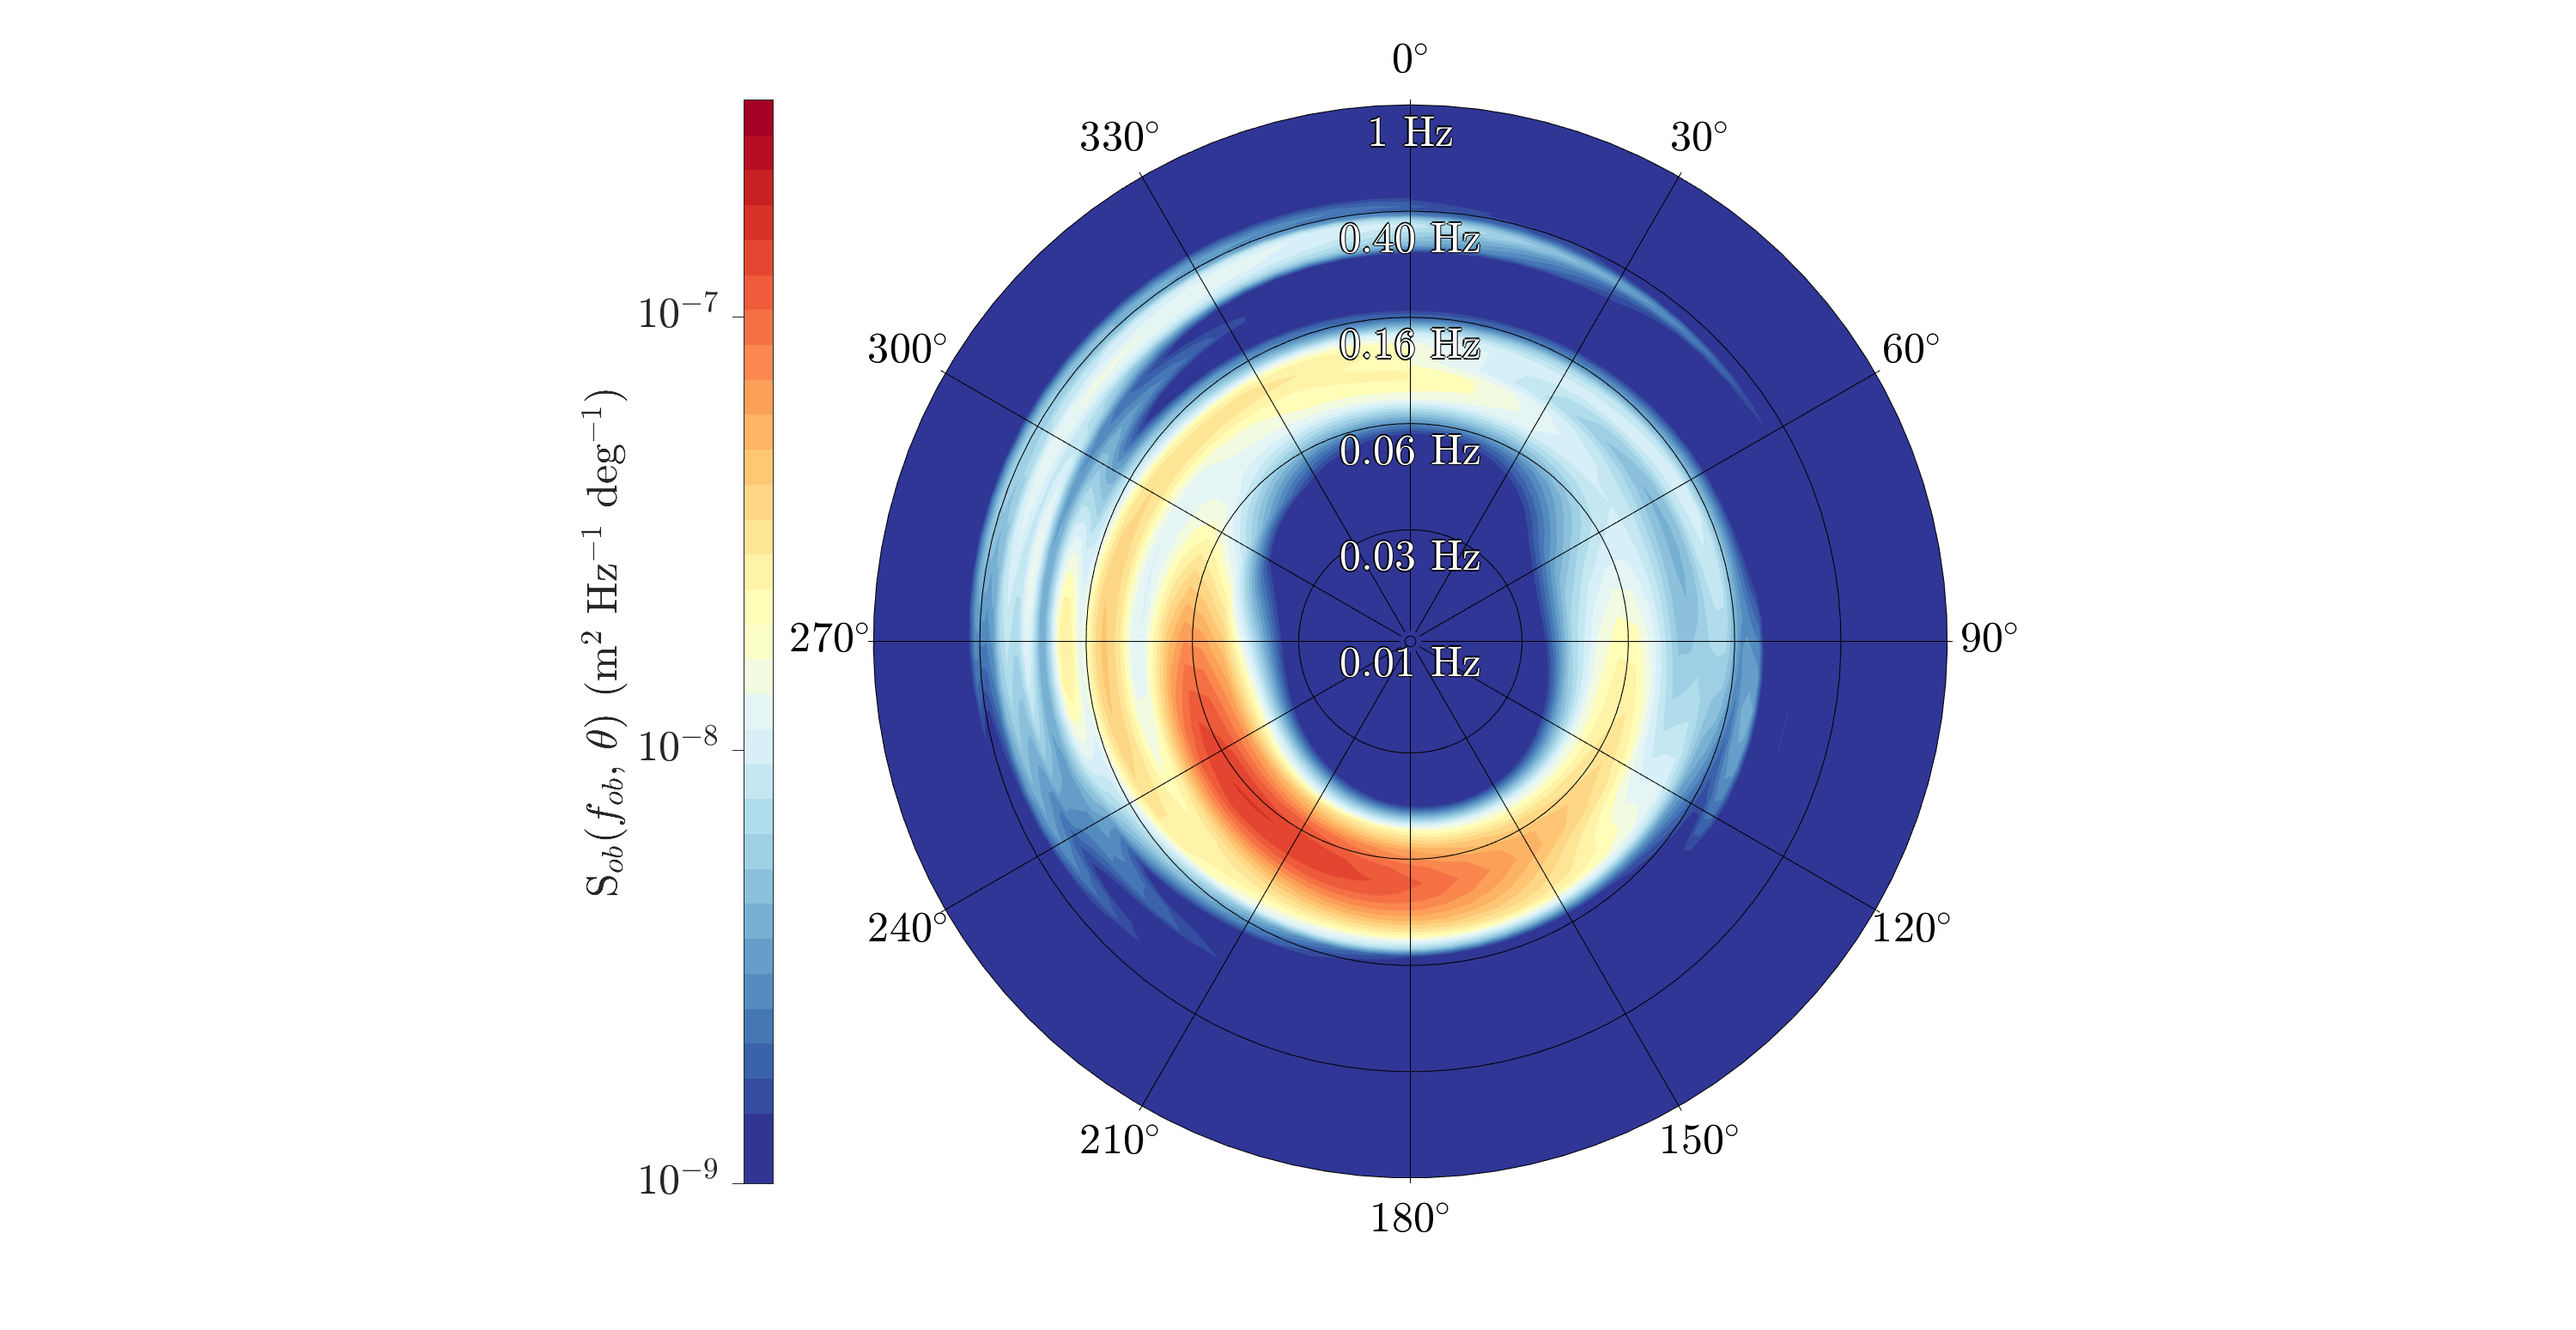
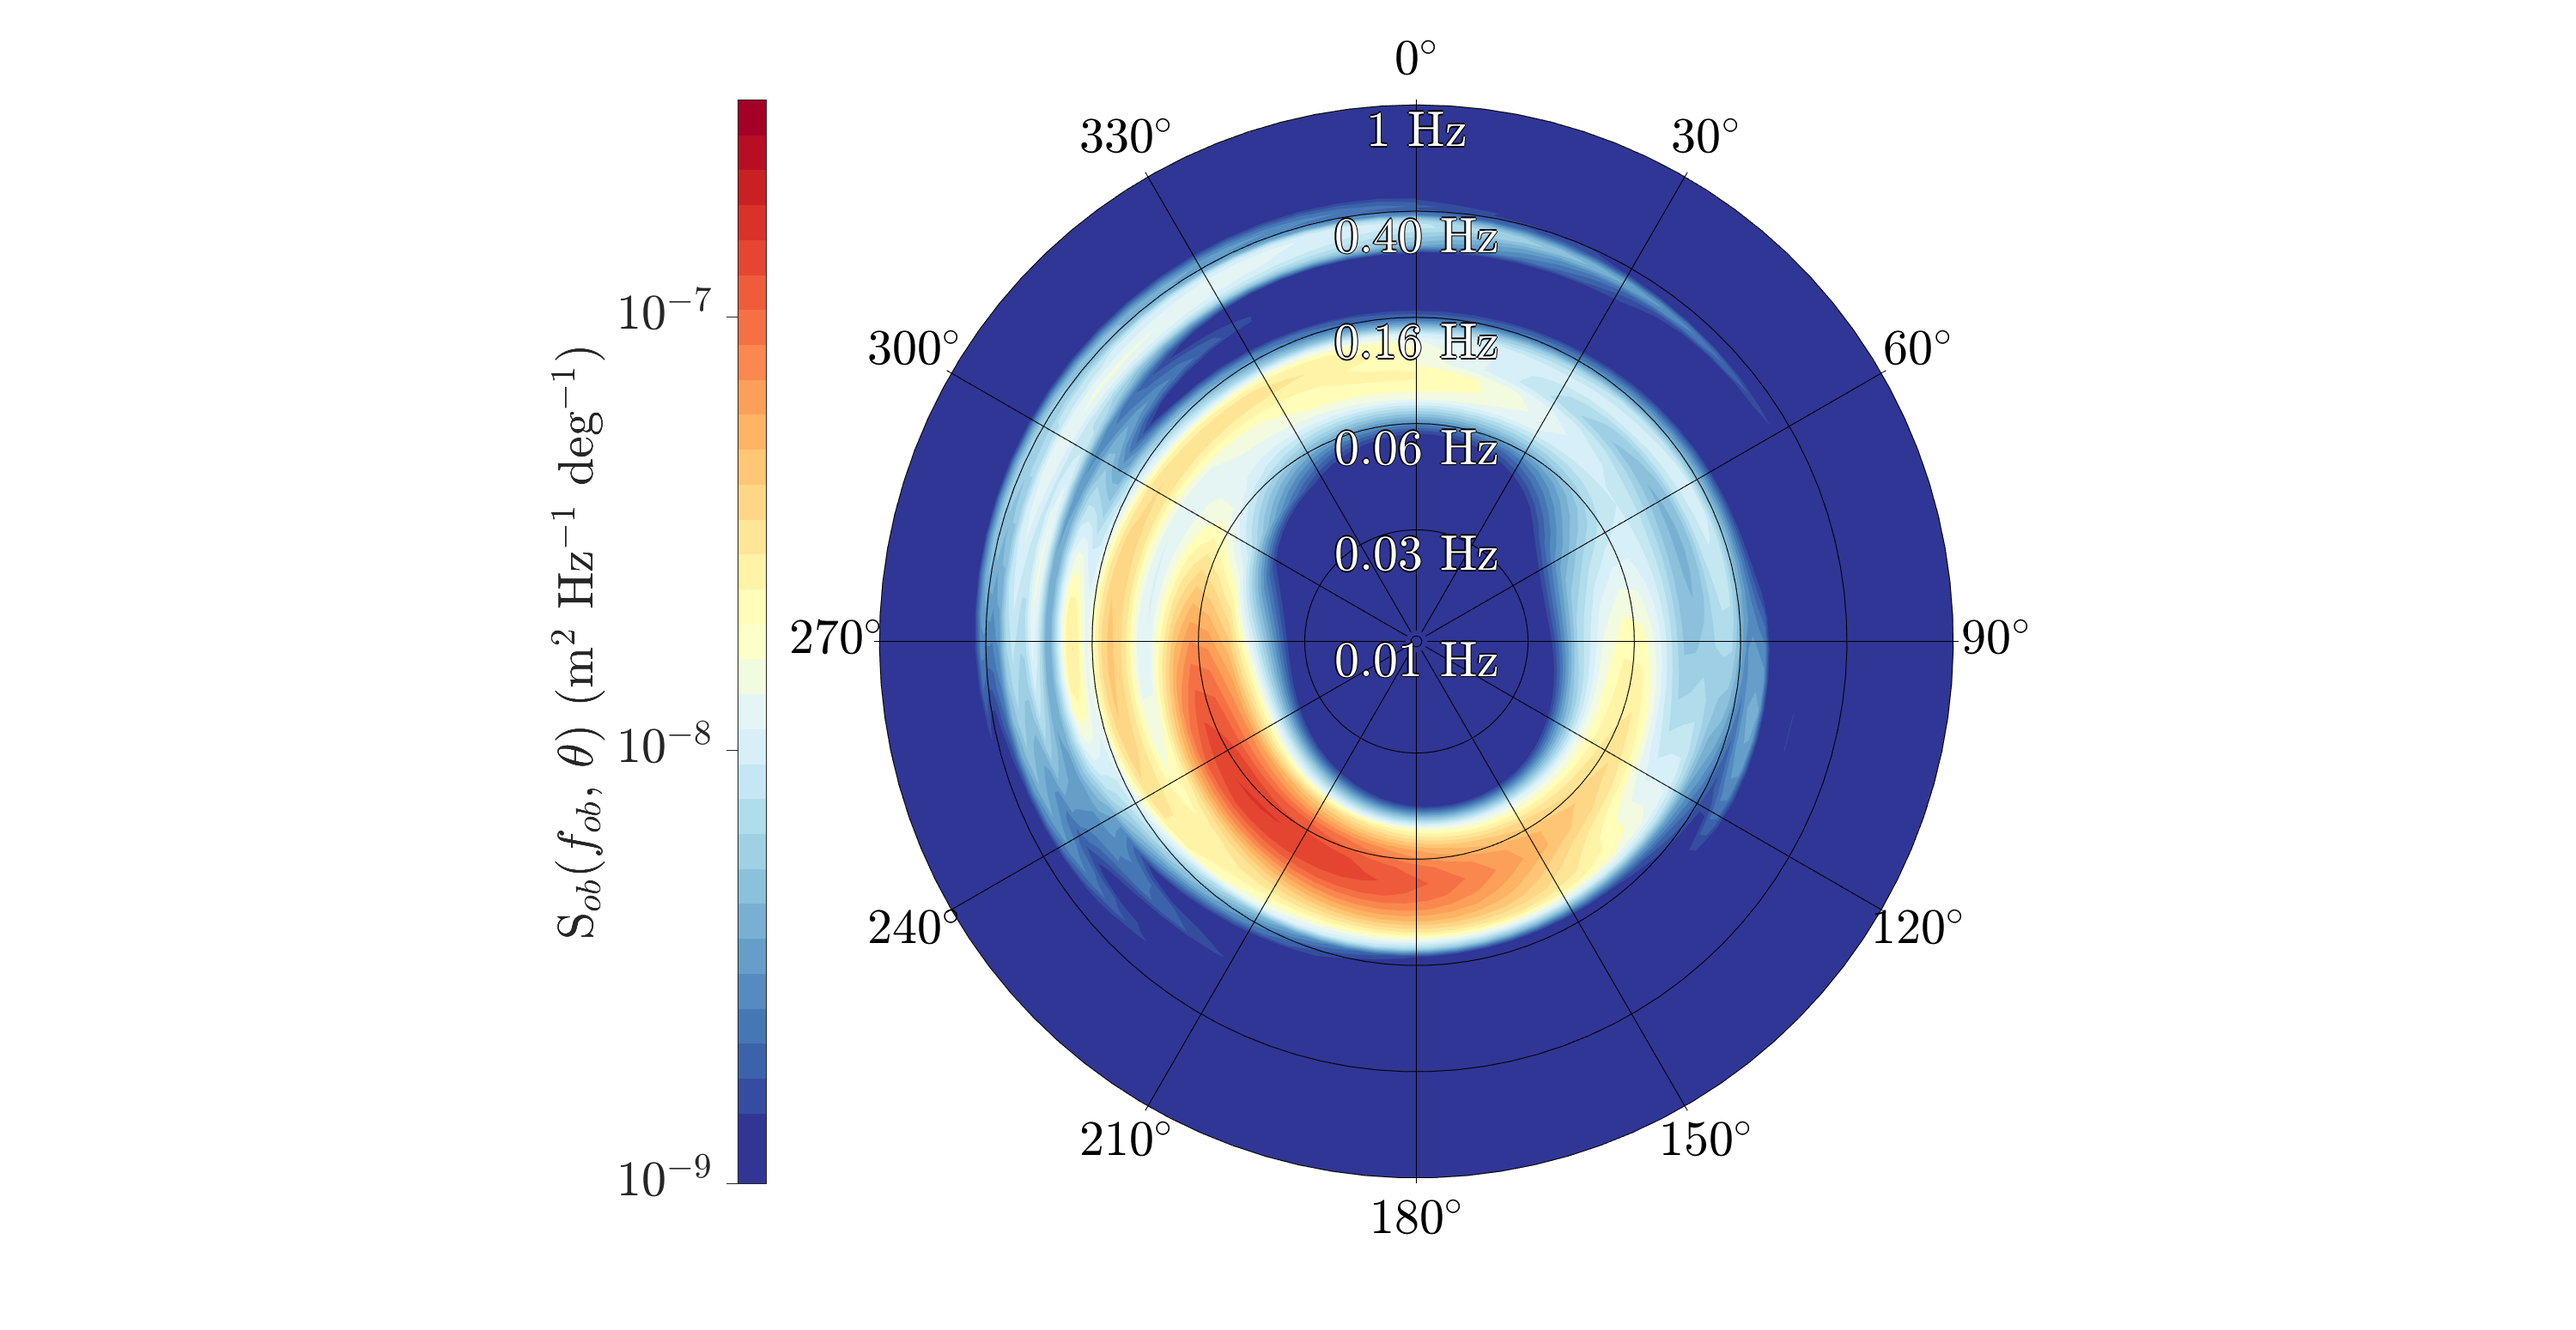
Update compute_directional_spectrum arguments.

diff --git a/src/fig06.m b/src/fig06.m
@@ -55,6 +55,7 @@ f_noise = sqrt(g/(2*pi*lambda_c));                                          % No
 toolbox = 'WAFO';                                                           % Method used to compute directional spectrum 
 variables = 'heave_velocity';                                               % Heave and horizontal velocity are used to compute the direction spectrum
 scaling = false;                                                            % Variance of directional spectrum is not scaled to match variance of heave spectrum 
+method = 'MEM';                                                             % Method used to compute directional spectrum 
 
 % Upload and process novatel and weather station data
 [nov_s, ~, nlegs_s] = process_wg_data(vehicle, ROOT, date_o, dir_con, [dt_n, dt_w]);
@@ -65,7 +66,7 @@ scaling = false;                                                            % Va
 for n = 1:nlegs_s
     
     % Compute Directional Spectrum  
-    eval(['[nov_s.Sd(:,:,n), nov_s.f, nov_s.theta] = compute_directional_spectrum(nov_s.L' num2str(n) '.heave, nov_s.L' num2str(n) '.VEL_east, nov_s.L' num2str(n) '.VEL_north, nov_s.L' num2str(n) '.VEL_up, nov_s.L' num2str(n) '.time_20hz, f, df, dtheta, nfft, fe_n, toolbox, variables, scaling, dir_con);']) 
+    eval(['[nov_s.Sd(:,:,n), nov_s.f, nov_s.theta] = compute_directional_spectrum(nov_s.L' num2str(n) '.heave, nov_s.L' num2str(n) '.VEL_east, nov_s.L' num2str(n) '.VEL_north, nov_s.L' num2str(n) '.VEL_up, nov_s.L' num2str(n) '.time_20hz, f, df, dtheta, nfft, fe_n, toolbox, variables, scaling, dir_con, method);']) 
     
 end
 
@@ -85,12 +86,12 @@ Nspokes = 13;                                                               % Nu
 Ncircles = 6;                                                               % Number of azimuthal circles
 pos = linspace(nov_s.f_ob(2), nov_s.f_ob(end), Ncircles);                   % Position of frequency labels
 theta_s = linspace(0,360,length(nov_s.theta));                              % Set theta for plotting
-Rticks = {'0.01 Hz','0.03 Hz','0.06 Hz','0.16 Hz', '0.40 Hz', '1 Hz'};                        % Frequency labels (obtained by logspace(log10(nov_p.f_in(2)), log10(nov_p.f_in(end)), Ncircles))
+Rticks = {'0.01 Hz','0.03 Hz','0.06 Hz','0.16 Hz', '0.40 Hz', '1 Hz'};      % Frequency labels (obtained by logspace(log10(nov_p.f_in(2)), log10(nov_p.f_in(end)), Ncircles))
 Contours = logspace(-9,-6.5,30);                                                   
 cmap = colormap(flipud(cbrewer2('RdYlBu', numel(Contours)))); 
 Contours_n = [10^-16, Contours];
 cmap_n = cat(1,cmap(1,:), cmap);
-fontsize = 24;
+fontsize = 28;
 LineWidth = 0.5;
 LineColor = 'k';
 LineStyle = '-';
@@ -135,3 +136,70 @@ disp(['Time Frame: ' t_initial ' to ' t_final])
 
 % Save Figure
 saveas(gcf, [fig_path 'fig06.png'])
+
+%% Create figures illustrating the process of computing Directional and Omni-directional wave Spectra
+close all
+
+% Set plotting variables 
+fontsize = 28; 
+t_ticks = datetime('10-Sep-2020 00:00:00'):minutes(10):datetime('10-Sep-2020 00:20:00');
+
+%------------------- Input Data -------------------%
+
+% Create figure
+figure('units','normalized','outerposition',[0 0 0.8 0.8])
+
+%------------- Subplot 1 -------------%
+ax1 = subplot(3,1,1);
+
+% Plot heave
+plot(nov_s.L18.time_20hz, nov_s.L18.heave, '-b', 'LineWidth', 1.5, 'Color',[0 0.4470 0.7410])
+
+% Set figure attributes
+ylabel('$\eta \;(m)$', 'Interpreter', 'latex')
+xticks(datenum(t_ticks))
+datetick('x', 'HH:MM', 'keepticks')
+xlim([nov_s.L18.time_20hz(1), nov_s.L18.time_20hz(end)])
+ylim([-1,1])
+grid on 
+set(gca,'TickDir','out');
+set(gca,'FontSize',fontsize)
+set(gca,'TickLabelInterpreter','latex')
+
+%------------- Subplot 2 -------------%
+ax2 = subplot(3,1,2);
+
+% Plot u velocity
+plot(nov_s.L18.time_20hz, nov_s.L18.VEL_east, '-r', 'LineWidth', 1.5, 'Color', [0.6350 0.0780 0.1840])
+
+% Set figure attributes
+ylabel('$u \;(ms^{-1})$', 'Interpreter', 'latex')
+xticks(datenum(t_ticks))
+datetick('x', 'HH:MM', 'keepticks')
+xlim([nov_s.L18.time_20hz(1), nov_s.L18.time_20hz(end)])
+ylim([-1.5,1.5])
+grid on 
+set(gca,'TickDir','out');
+set(gca,'FontSize',fontsize)
+set(gca,'TickLabelInterpreter','latex')
+
+%------------- Subplot 3 -------------%
+ax3 = subplot(3,1,3);
+
+% Plot heave
+plot(nov_s.L18.time_20hz, nov_s.L18.VEL_north, '-', 'LineWidth', 1.5, 'Color', [199, 144, 16]/256)
+
+% Set figure attributes
+xlabel('UTC time since 09 Sep 2020', 'Interpreter', 'latex')
+ylabel('$v \;(ms^{-1})$', 'Interpreter', 'latex')
+xticks(datenum(t_ticks))
+datetick('x', 'HH:MM', 'keepticks')
+xlim([nov_s.L18.time_20hz(1), nov_s.L18.time_20hz(end)])
+ylim([-1.5,1.5])
+grid on 
+set(gca,'TickDir','out');
+set(gca,'FontSize',fontsize)
+set(gca,'TickLabelInterpreter','latex')
+
+% Save Figure
+saveas(gcf, [fig_path 'heave_velocity_ts.png'])
